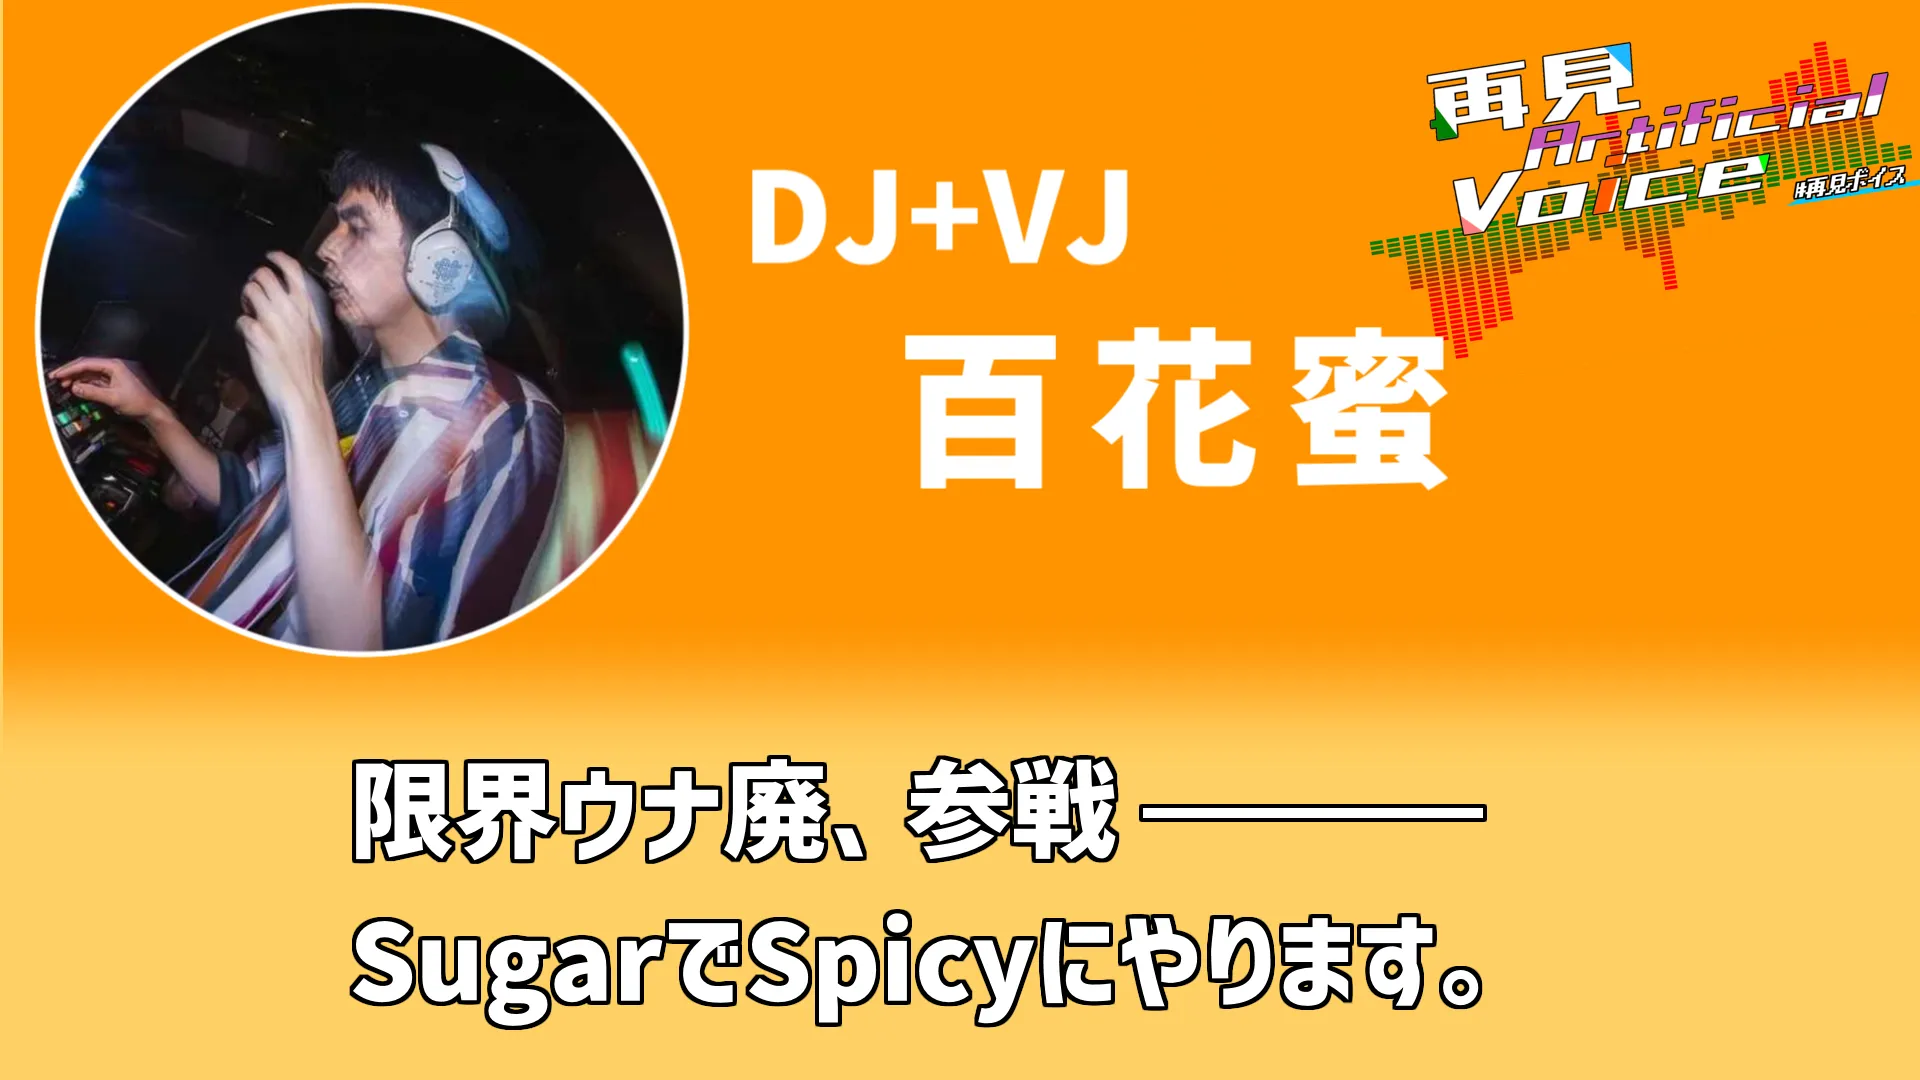
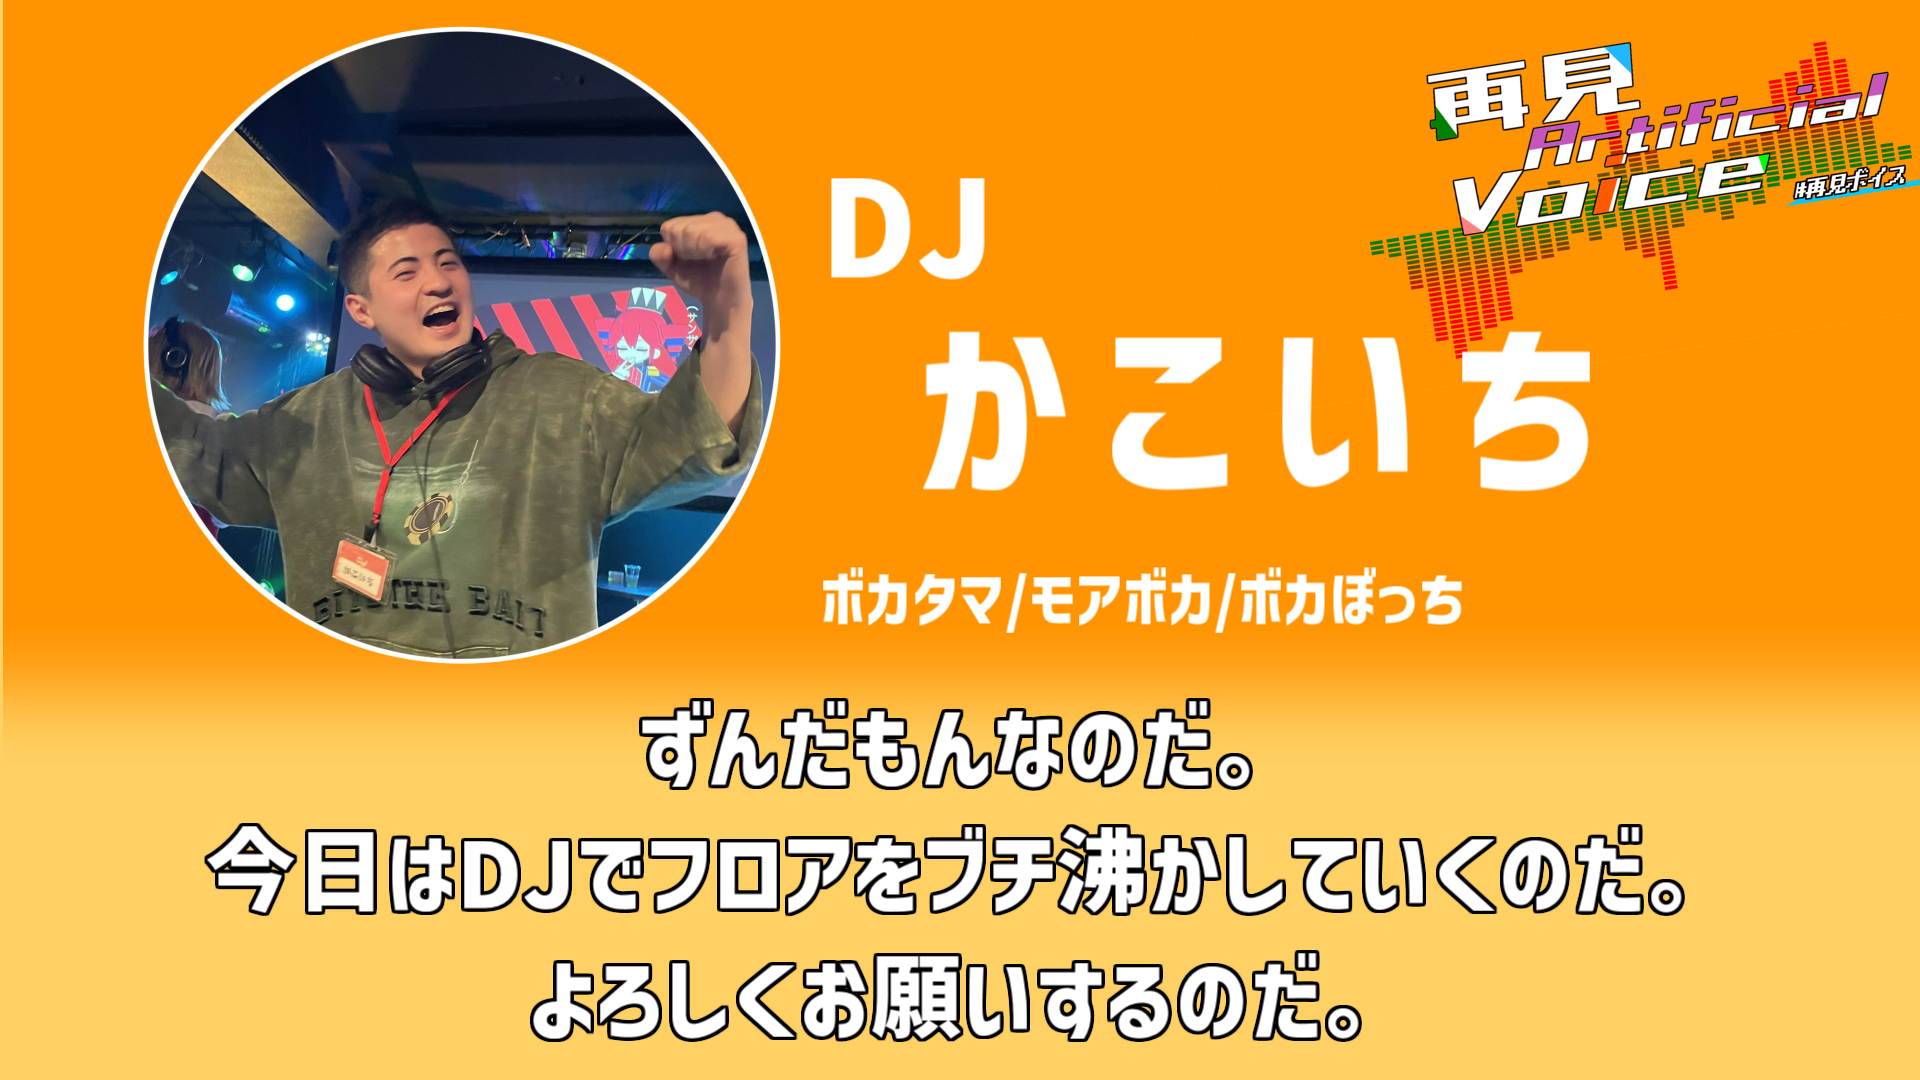
演者更新

diff --git a/src/pages/cast.tsx b/src/pages/cast.tsx
@@ -6,50 +6,54 @@ import "../styles/cast.scss";
 type Cast = {"name": string, "twitter_name": string};
 
 const CASTS: Cast[] = [
-  // {
-  //    "name": "G-1",
-  //    "twitter_name": "nekobasi_illust",
-  // },
-  // {
-  //   "name": "G-2",
-  //   "twitter_name": "SeIenium_selen",
-  // },
-  // {
-  //   "name": "G-3",
-  //   "twitter_name": "A2_Okita_Xalter",
-  // },
+  {
+    "name": "G-1",
+    "twitter_name": "nejishiki0221",
+  },
+  {
+    "name": "G-2",
+    "twitter_name": "rinx2musixxx",
+  },
   
-  // {
-  //   "name": "D-1",
-  //   "twitter_name": "dtm_honey_music",
-  // },
-  // {
-  //   "name": "D-2",
-  //   "twitter_name": "jagkazu",
-  // },
-  // {
-  //   "name": "D-3",
-  //   "twitter_name": "menanonosekai",
-  // },
-  // {
-  //   "name": "D-4",
-  //   "twitter_name": "y2k2u1",
-  // },
-  // {
-  //   "name": "D-5",
-  //   "twitter_name": "owari_error",
-  // },
-  // {
-  //   "name": "D-6",
-  //   "twitter_name": "asikan3745",
-  // },
-  // {
-  //   "name": "D-7",
-  //   "twitter_name": "rokutii_3500",
-  // },
+  {
+    "name": "D-1",
+    "twitter_name": "M_kakoichi",
+  },
+  {
+    "name": "D-2",
+    "twitter_name": "jagkazu",
+  },
+  {
+    "name": "D-3",
+    "twitter_name": "A2_Okita_Xalter",
+  },
+  {
+    "name": "D-4",
+    "twitter_name": "y2k2u1",
+  },
+  {
+    "name": "D-5",
+    "twitter_name": "owari_error",
+  },
+  {
+    "name": "D-6",
+    "twitter_name": "asikan3745",
+  },
+  {
+    "name": "D-7",
+    "twitter_name": "rokutii_3500",
+  },
   {
     "name": "V-1",
     "twitter_name": "Torikan_0893",
+  },
+  {
+    "name": "V-2",
+    "twitter_name": "osouji_rapi",
+  },
+  {
+    "name": "V-3",
+    "twitter_name": "metameta194",
   },
 ]
 
@@ -59,7 +63,7 @@ const CasrtCard = (props: Cast) => {
       <a href={"https://x.com/" + props.twitter_name} target="_blank">
         <img src={"./cast/" + props.name + ".webp"} alt={props.name} />
       </a>  
-      {/* <p>{props.twitter_name}</p> */}
+      <p>{"@"+props.twitter_name}</p>
     </div>
   );
 }
@@ -75,7 +79,7 @@ export const Cast = () => {
         <div className="detail">
           <h4>Guest</h4>
           <p>
-          <li>調整中...</li>
+          {/* <li>調整中...</li> */}
           </p>
           <div className="CastList">
             {CASTS.filter((cast) => cast.name[0]==="G").map((cast) => <CasrtCard key={cast.name} {...cast} />)}
@@ -84,7 +88,7 @@ export const Cast = () => {
         <div className="detail">
           <h4>DJ</h4>
           <p>
-          <li>調整中...</li>
+          {/* <li>調整中...</li> */}
           </p>
           <div className="CastList">
             {CASTS.filter((cast) => cast.name[0]==="D").map((cast) => <CasrtCard key={cast.name} {...cast} />)}
@@ -96,7 +100,7 @@ export const Cast = () => {
             {CASTS.filter((cast) => cast.name[0]==="V").map((cast) => <CasrtCard key={cast.name} {...cast} />)}
           </div>
           <p>
-          <li>らぴ</li>
+          {/* <li>らぴ</li> */}
           </p>
         </div>
       </div>
